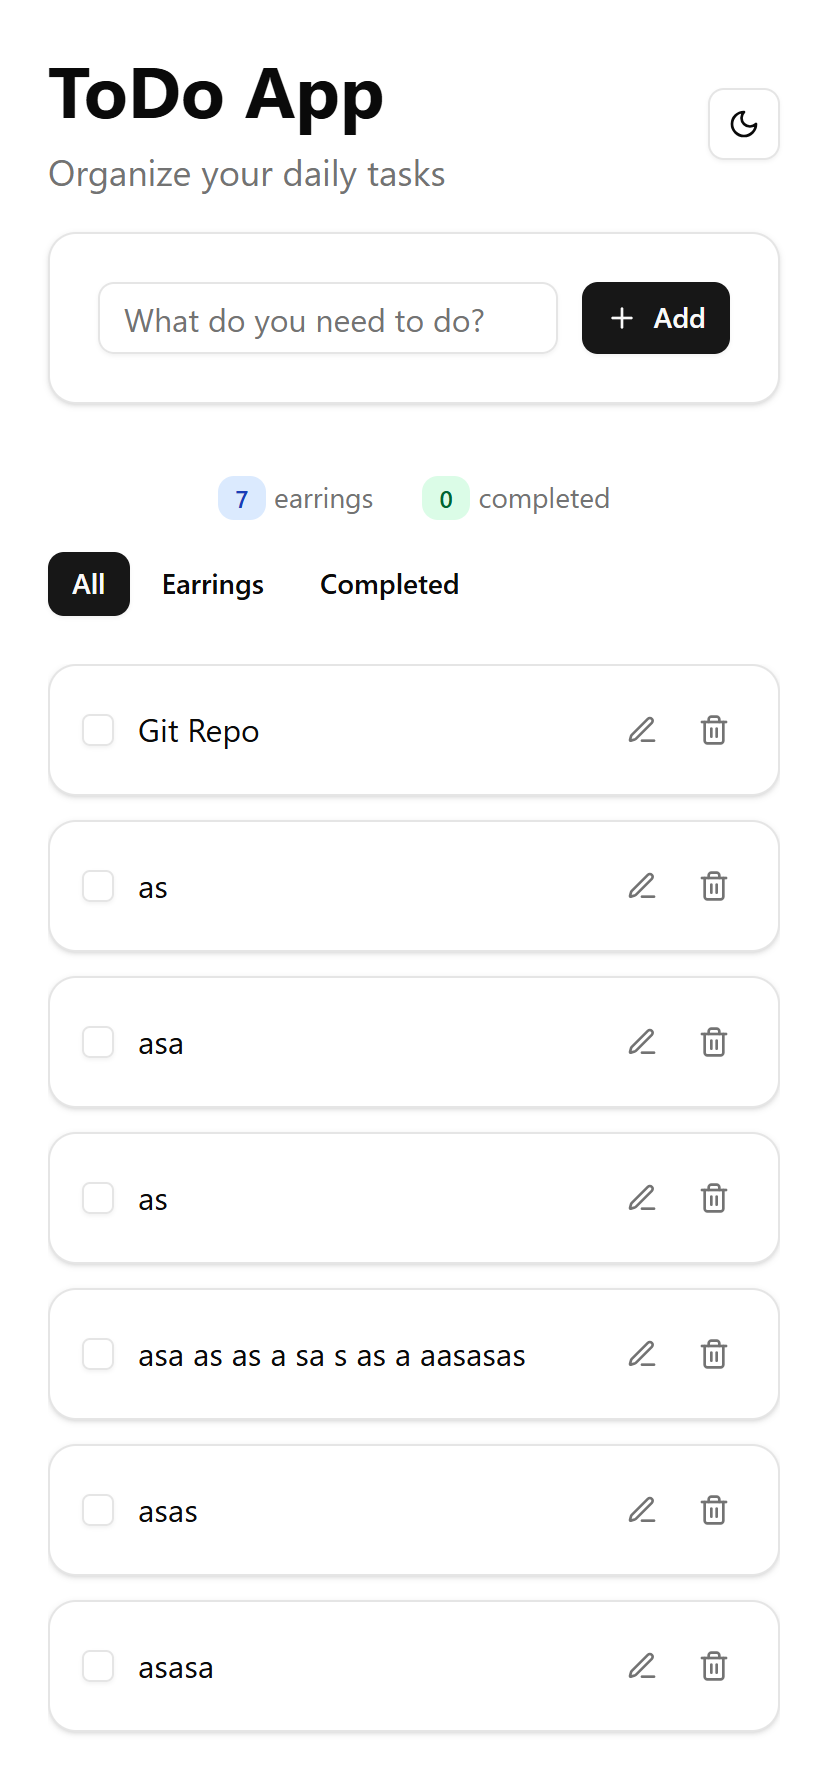
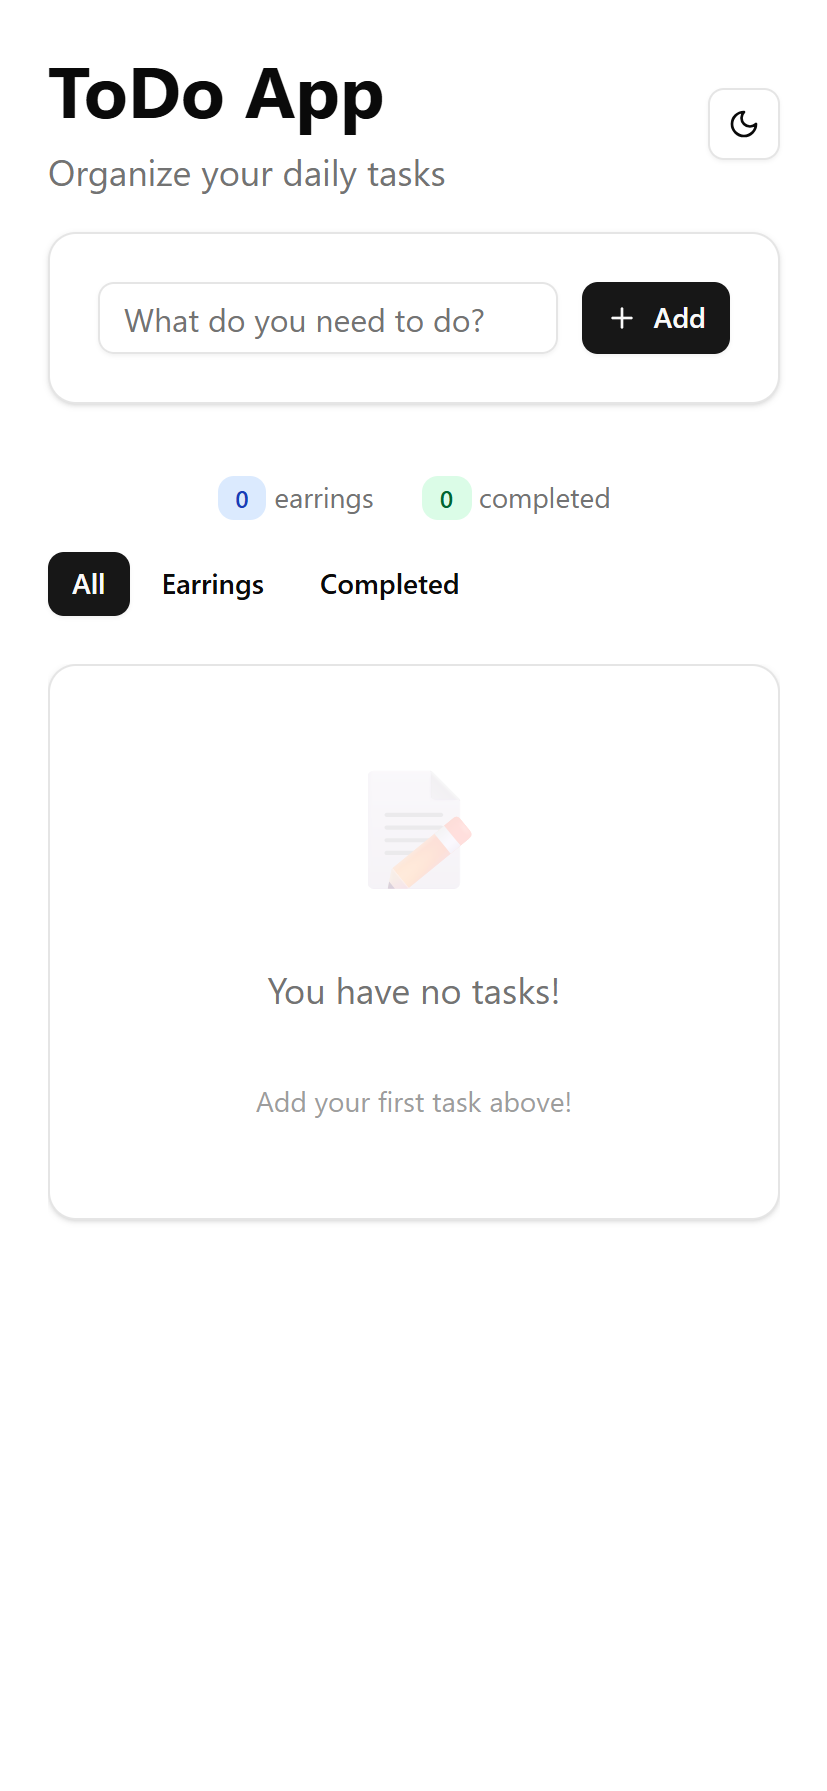
fix empty message and change app preview

diff --git a/src/components/TodoApp.vue b/src/components/TodoApp.vue
@@ -194,6 +194,16 @@ const addTodo = () => {
   }
 };
 
+const getEmptyMessage = () => {
+  if (filter.value === "active") {
+    return "You have no earrings!";
+  } else if (filter.value === "completed") {
+    return "You have no completed tasks!";
+  } else {
+    return "You have no tasks!";
+  }
+};
+
 watch(todos, saveTodos, { deep: true });
 
 initTheme();

diff --git a/README.md b/README.md
@@ -2,8 +2,6 @@
 
 This is a simple yet powerful ToDo list application, developed with Vue.js 3 (Composition API) and Vite. It allows users to manage their daily tasks in a clean, efficient, and visually pleasing way, featuring modern functionalities like data persistence and theme switching.
 
-![App Screenshot](./src/assets/app-screenshot.png)
-
 ## ✨ Key Features
 
 The application includes a comprehensive set of features for effective task management:
@@ -74,3 +72,9 @@ In the project directory, you can run the following commands:
 *   `npm run dev`: Runs the app in development mode with hot-reloading.
 *   `npm run build`: Builds the app for production to the `dist` folder.
 *   `npm run preview`: Locally serves the production build for previewing.
+
+## 🖼 App Preview
+
+The application features a clean, minimalist interface with support for both light and dark modes.
+
+![App Screenshot](./src/assets/app-screenshot.png)
